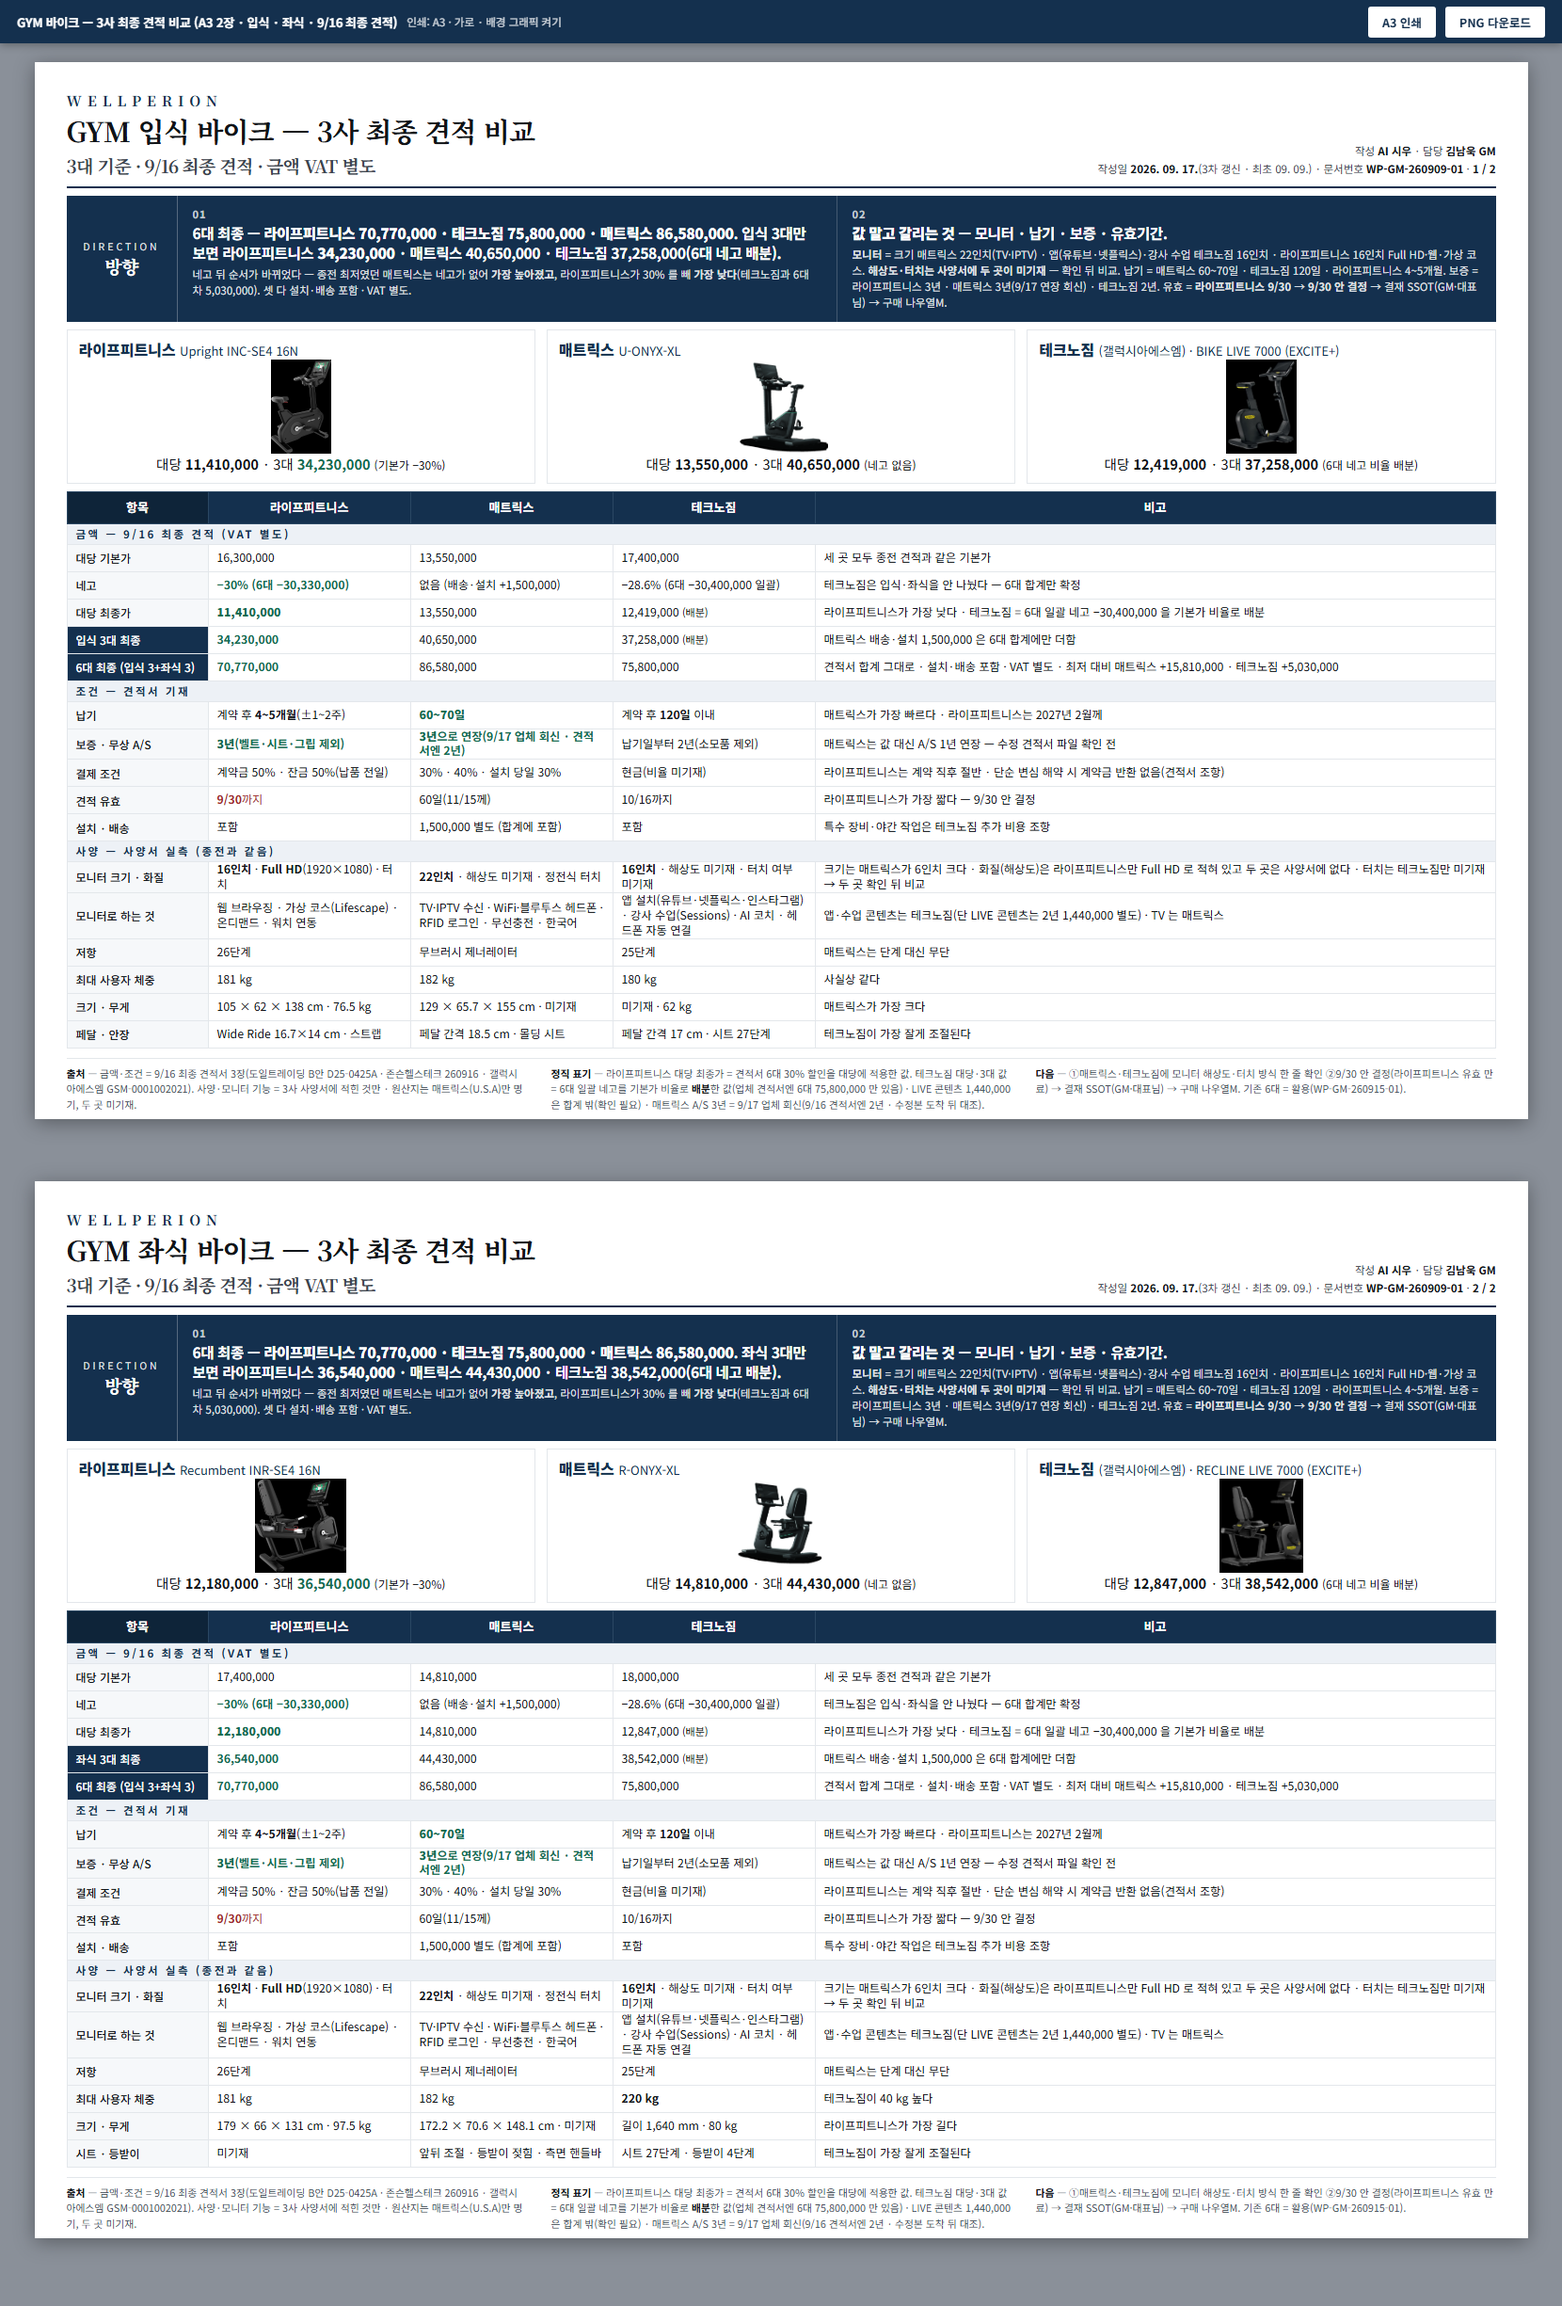
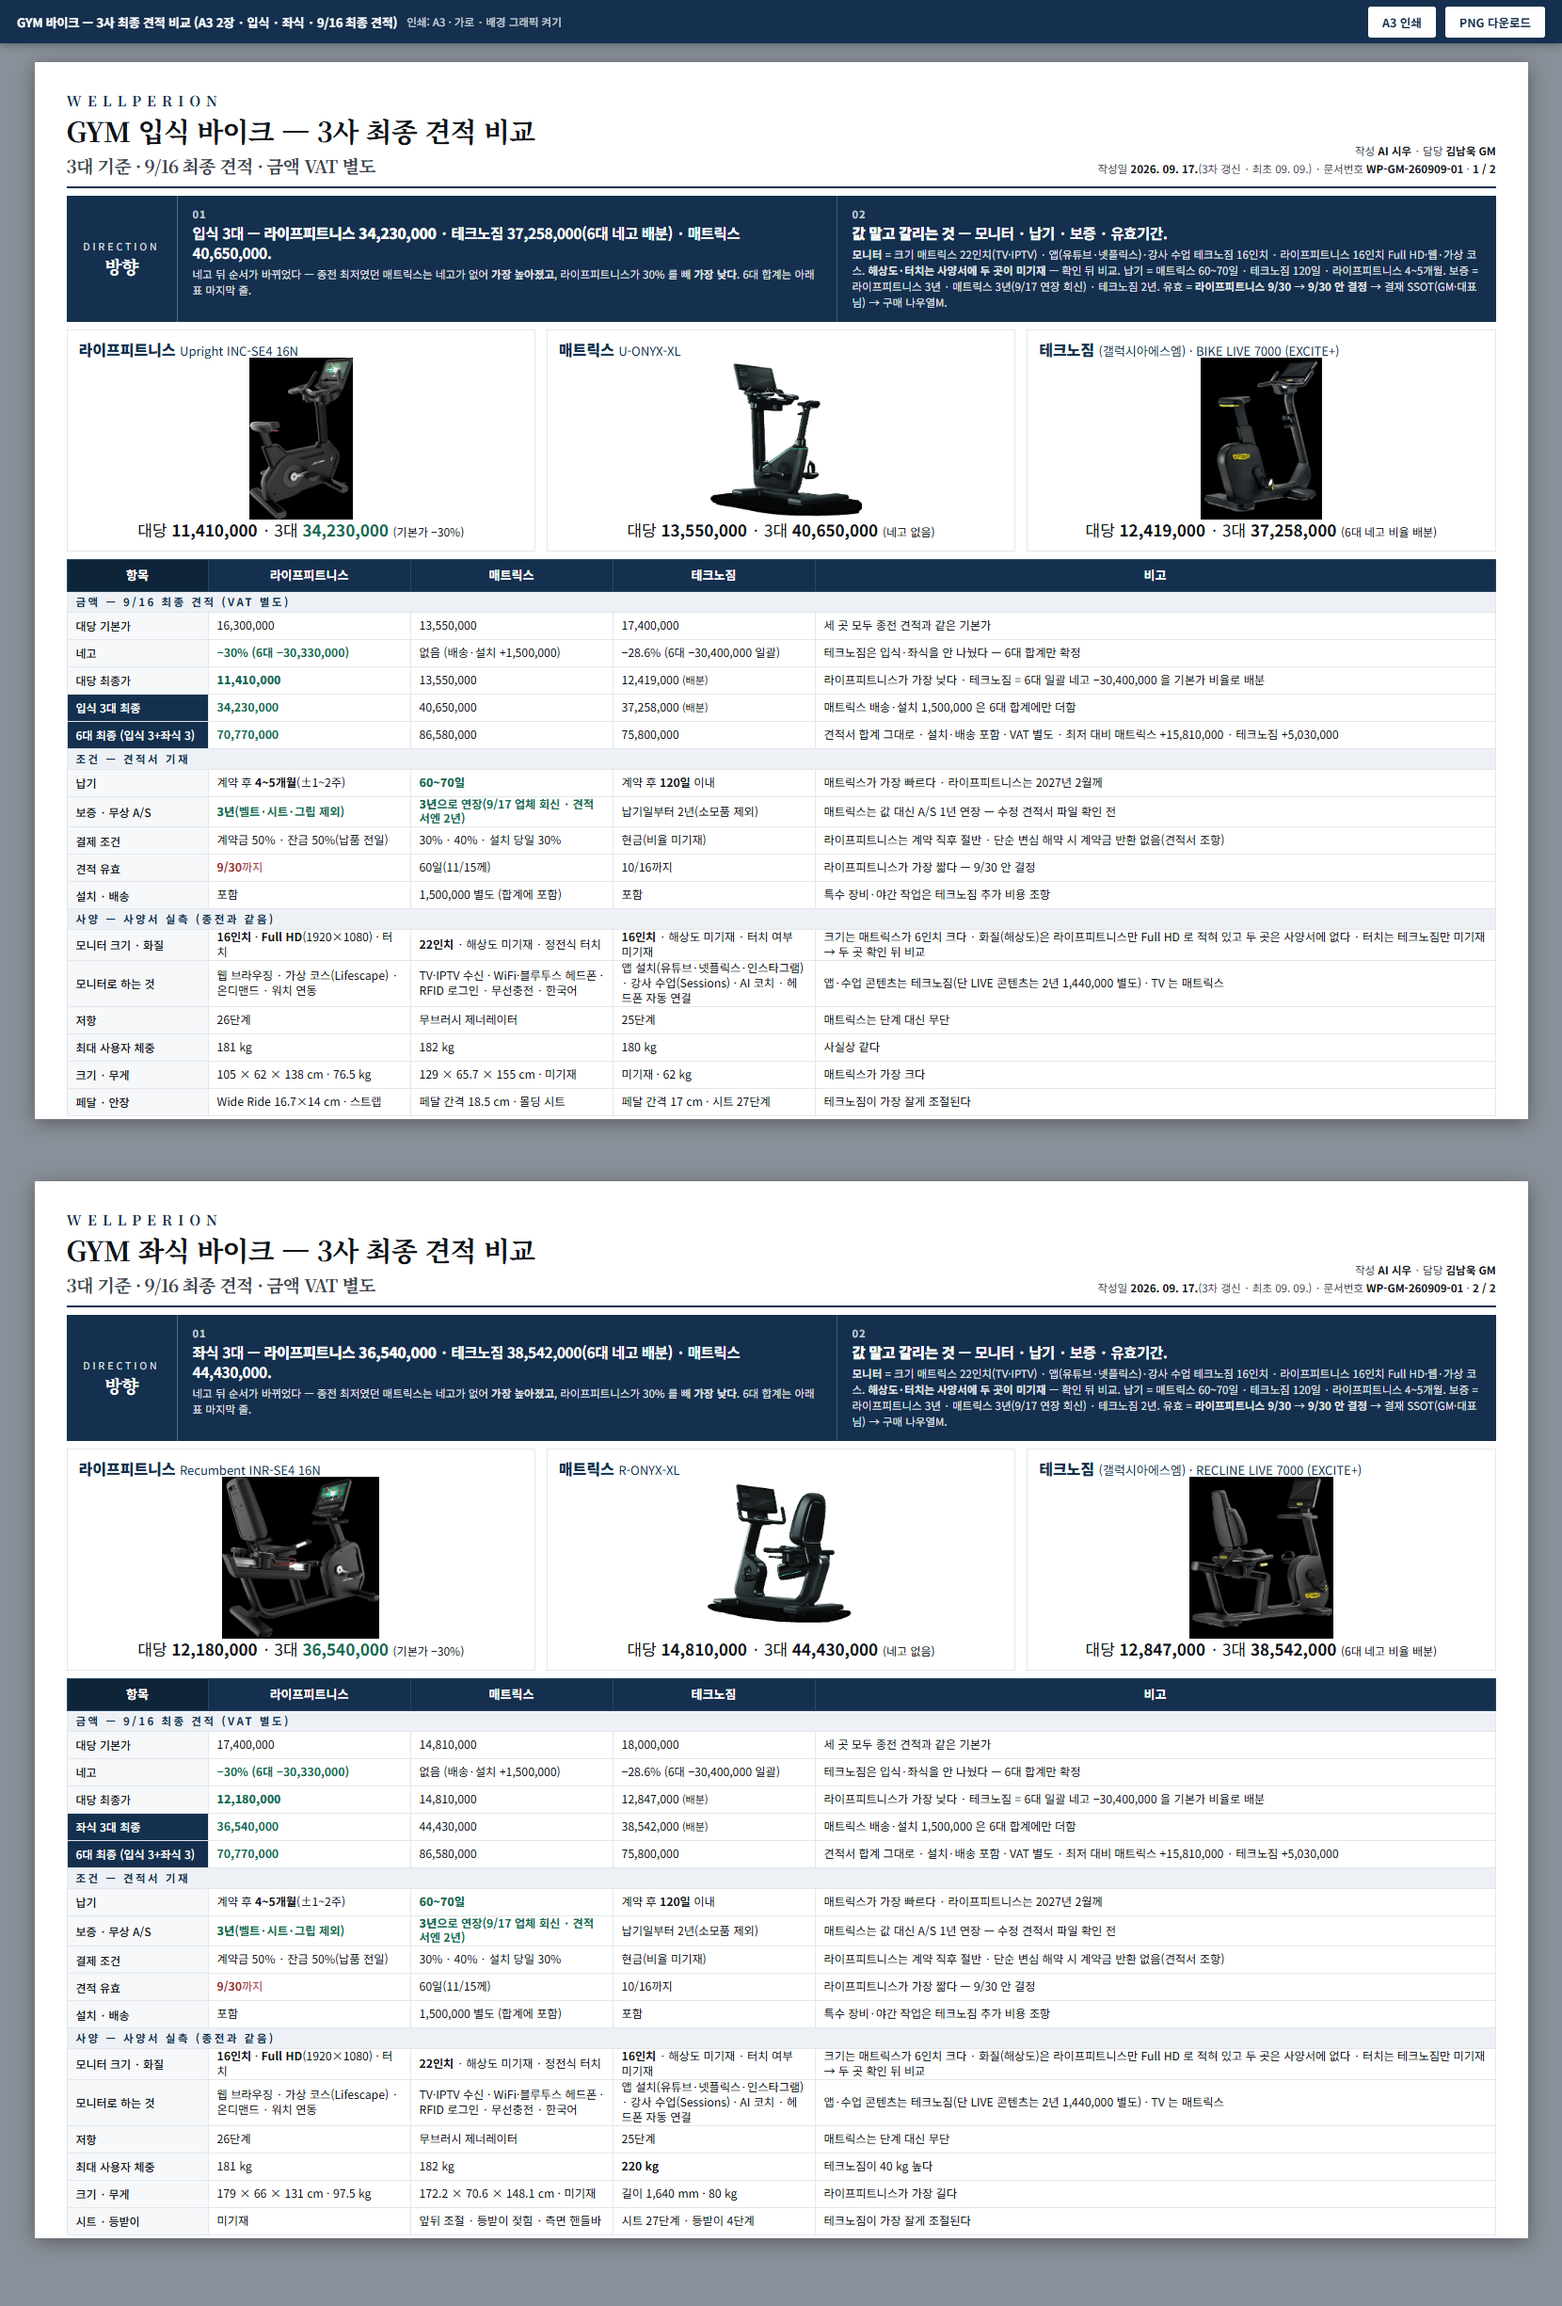
[시우] docs(chairman): 바이크 3사 A3 6차 — 방향 밴드의 6대 합계 중복 삭제(표 마지막 줄 한 곳만) · 제품 사진 100→172px · 가격 글자 14.5→17px(GM 09-17 13:4x)

Changed region(s): [[0.0307, 0.5584, 0.9524, 0.9927], [0.0307, 0.1551, 0.9524, 0.4963], [0.1229, 0.0931, 0.5223, 0.1241]]

diff --git a/3. 웰페리온 가이드/coo/chairman/260909_GYM바이크_3사비교_A3.html b/3. 웰페리온 가이드/coo/chairman/260909_GYM바이크_3사비교_A3.html
@@ -133,26 +133,26 @@
   <div class="ask" style="margin-top:8px">
     <div class="lb"><span>DIRECTION</span><strong>방향</strong></div>
     <div class="items">
-      <div class="it"><div class="n">01</div><div><div class="q">6대 최종 — <b>라이프피트니스 70,770,000 · 테크노짐 75,800,000 · 매트릭스 86,580,000</b>. 입식 3대만 보면 라이프피트니스 <b>34,230,000</b> · 매트릭스 40,650,000 · 테크노짐 37,258,000(6대 네고 배분).</div><div class="d">네고 뒤 순서가 바뀌었다 — 종전 최저였던 매트릭스는 네고가 없어 <b>가장 높아졌고</b>, 라이프피트니스가 30% 를 빼 <b>가장 낮다</b>(테크노짐과 6대 차 5,030,000). 셋 다 설치·배송 포함 · VAT 별도.</div></div></div>
+      <div class="it"><div class="n">01</div><div><div class="q">입식 3대 — <b>라이프피트니스 34,230,000</b> · 테크노짐 37,258,000(6대 네고 배분) · 매트릭스 40,650,000.</div><div class="d">네고 뒤 순서가 바뀌었다 — 종전 최저였던 매트릭스는 네고가 없어 <b>가장 높아졌고</b>, 라이프피트니스가 30% 를 빼 <b>가장 낮다</b>. 6대 합계는 아래 표 마지막 줄.</div></div></div>
       <div class="it"><div class="n">02</div><div><div class="q"><b>값 말고 갈리는 것</b> — 모니터 · 납기 · 보증 · 유효기간.</div><div class="d"><b>모니터</b> = 크기 매트릭스 22인치(TV·IPTV) · 앱(유튜브·넷플릭스)·강사 수업 테크노짐 16인치 · 라이프피트니스 16인치 Full HD·웹·가상 코스. <b>해상도·터치는 사양서에 두 곳이 미기재</b> — 확인 뒤 비교. 납기 = 매트릭스 60~70일 · 테크노짐 120일 · 라이프피트니스 4~5개월. 보증 = 라이프피트니스 3년 · 매트릭스 3년(9/17 연장 회신) · 테크노짐 2년. 유효 = <b>라이프피트니스 9/30</b> → <b>9/30 안 결정</b> → 결재 SSOT(GM·대표님) → 구매 나우열M.</div></div></div>
     </div>
   </div>
 
-  <div style="display:flex; gap:12px; margin-top:8px; height:164px">
+  <div style="display:flex; gap:12px; margin-top:8px; height:236px">
       <div style="flex:1; min-width:0; border:1px solid var(--line); padding:8px 12px 10px; display:flex; flex-direction:column">
         <div style="font-weight:800; font-size:16px; color:var(--navy)">라이프피트니스 <span style="font-weight:400; color:var(--dim); font-size:13px">Upright INC-SE4 16N</span></div>
-        <div style="flex:1; min-height:0; display:flex; align-items:center; justify-content:center; margin:6px 0"><img src="assets/bike/lf_p3_3.png" alt="라이프피트니스" style="max-width:100%; max-height:100px; object-fit:contain"></div>
-        <div style="text-align:center; font-size:14.5px">대당 <b>11,410,000</b> · 3대 <b class="good">34,230,000</b> <span style="color:var(--dim);font-size:12px">(기본가 −30%)</span></div>
+        <div style="flex:1; min-height:0; display:flex; align-items:center; justify-content:center; margin:6px 0"><img src="assets/bike/lf_p3_3.png" alt="라이프피트니스" style="max-width:100%; max-height:172px; object-fit:contain"></div>
+        <div style="text-align:center; font-size:17px">대당 <b>11,410,000</b> · 3대 <b class="good">34,230,000</b> <span style="color:var(--dim);font-size:12px">(기본가 −30%)</span></div>
       </div>
       <div style="flex:1; min-width:0; border:1px solid var(--line); padding:8px 12px 10px; display:flex; flex-direction:column">
         <div style="font-weight:800; font-size:16px; color:var(--navy)">매트릭스 <span style="font-weight:400; color:var(--dim); font-size:13px">U-ONYX-XL</span></div>
-        <div style="flex:1; min-height:0; display:flex; align-items:center; justify-content:center; margin:6px 0"><img src="assets/bike/matrix_p7_6.png" alt="매트릭스" style="max-width:100%; max-height:100px; object-fit:contain"></div>
-        <div style="text-align:center; font-size:14.5px">대당 <b>13,550,000</b> · 3대 <b>40,650,000</b> <span style="color:var(--dim);font-size:12px">(네고 없음)</span></div>
+        <div style="flex:1; min-height:0; display:flex; align-items:center; justify-content:center; margin:6px 0"><img src="assets/bike/matrix_p7_6.png" alt="매트릭스" style="max-width:100%; max-height:172px; object-fit:contain"></div>
+        <div style="text-align:center; font-size:17px">대당 <b>13,550,000</b> · 3대 <b>40,650,000</b> <span style="color:var(--dim);font-size:12px">(네고 없음)</span></div>
       </div>
       <div style="flex:1; min-width:0; border:1px solid var(--line); padding:8px 12px 10px; display:flex; flex-direction:column">
         <div style="font-weight:800; font-size:16px; color:var(--navy)">테크노짐 <span style="font-weight:400; color:var(--dim); font-size:13px">(갤럭시아에스엠) · BIKE LIVE 7000 (EXCITE+)</span></div>
-        <div style="flex:1; min-height:0; display:flex; align-items:center; justify-content:center; margin:6px 0"><img src="assets/bike/techno_p3_7.png" alt="테크노짐" style="max-width:100%; max-height:100px; object-fit:contain"></div>
-        <div style="text-align:center; font-size:14.5px">대당 <b>12,419,000</b> · 3대 <b>37,258,000</b> <span style="color:var(--dim);font-size:12px">(6대 네고 비율 배분)</span></div>
+        <div style="flex:1; min-height:0; display:flex; align-items:center; justify-content:center; margin:6px 0"><img src="assets/bike/techno_p3_7.png" alt="테크노짐" style="max-width:100%; max-height:172px; object-fit:contain"></div>
+        <div style="text-align:center; font-size:17px">대당 <b>12,419,000</b> · 3대 <b>37,258,000</b> <span style="color:var(--dim);font-size:12px">(6대 네고 비율 배분)</span></div>
       </div>
   </div>
 
@@ -200,26 +200,26 @@
   <div class="ask" style="margin-top:8px">
     <div class="lb"><span>DIRECTION</span><strong>방향</strong></div>
     <div class="items">
-      <div class="it"><div class="n">01</div><div><div class="q">6대 최종 — <b>라이프피트니스 70,770,000 · 테크노짐 75,800,000 · 매트릭스 86,580,000</b>. 좌식 3대만 보면 라이프피트니스 <b>36,540,000</b> · 매트릭스 44,430,000 · 테크노짐 38,542,000(6대 네고 배분).</div><div class="d">네고 뒤 순서가 바뀌었다 — 종전 최저였던 매트릭스는 네고가 없어 <b>가장 높아졌고</b>, 라이프피트니스가 30% 를 빼 <b>가장 낮다</b>(테크노짐과 6대 차 5,030,000). 셋 다 설치·배송 포함 · VAT 별도.</div></div></div>
+      <div class="it"><div class="n">01</div><div><div class="q">좌식 3대 — <b>라이프피트니스 36,540,000</b> · 테크노짐 38,542,000(6대 네고 배분) · 매트릭스 44,430,000.</div><div class="d">네고 뒤 순서가 바뀌었다 — 종전 최저였던 매트릭스는 네고가 없어 <b>가장 높아졌고</b>, 라이프피트니스가 30% 를 빼 <b>가장 낮다</b>. 6대 합계는 아래 표 마지막 줄.</div></div></div>
       <div class="it"><div class="n">02</div><div><div class="q"><b>값 말고 갈리는 것</b> — 모니터 · 납기 · 보증 · 유효기간.</div><div class="d"><b>모니터</b> = 크기 매트릭스 22인치(TV·IPTV) · 앱(유튜브·넷플릭스)·강사 수업 테크노짐 16인치 · 라이프피트니스 16인치 Full HD·웹·가상 코스. <b>해상도·터치는 사양서에 두 곳이 미기재</b> — 확인 뒤 비교. 납기 = 매트릭스 60~70일 · 테크노짐 120일 · 라이프피트니스 4~5개월. 보증 = 라이프피트니스 3년 · 매트릭스 3년(9/17 연장 회신) · 테크노짐 2년. 유효 = <b>라이프피트니스 9/30</b> → <b>9/30 안 결정</b> → 결재 SSOT(GM·대표님) → 구매 나우열M.</div></div></div>
     </div>
   </div>
 
-  <div style="display:flex; gap:12px; margin-top:8px; height:164px">
+  <div style="display:flex; gap:12px; margin-top:8px; height:236px">
       <div style="flex:1; min-width:0; border:1px solid var(--line); padding:8px 12px 10px; display:flex; flex-direction:column">
         <div style="font-weight:800; font-size:16px; color:var(--navy)">라이프피트니스 <span style="font-weight:400; color:var(--dim); font-size:13px">Recumbent INR-SE4 16N</span></div>
-        <div style="flex:1; min-height:0; display:flex; align-items:center; justify-content:center; margin:6px 0"><img src="assets/bike/lf_p4_3.png" alt="라이프피트니스" style="max-width:100%; max-height:100px; object-fit:contain"></div>
-        <div style="text-align:center; font-size:14.5px">대당 <b>12,180,000</b> · 3대 <b class="good">36,540,000</b> <span style="color:var(--dim);font-size:12px">(기본가 −30%)</span></div>
+        <div style="flex:1; min-height:0; display:flex; align-items:center; justify-content:center; margin:6px 0"><img src="assets/bike/lf_p4_3.png" alt="라이프피트니스" style="max-width:100%; max-height:172px; object-fit:contain"></div>
+        <div style="text-align:center; font-size:17px">대당 <b>12,180,000</b> · 3대 <b class="good">36,540,000</b> <span style="color:var(--dim);font-size:12px">(기본가 −30%)</span></div>
       </div>
       <div style="flex:1; min-width:0; border:1px solid var(--line); padding:8px 12px 10px; display:flex; flex-direction:column">
         <div style="font-weight:800; font-size:16px; color:var(--navy)">매트릭스 <span style="font-weight:400; color:var(--dim); font-size:13px">R-ONYX-XL</span></div>
-        <div style="flex:1; min-height:0; display:flex; align-items:center; justify-content:center; margin:6px 0"><img src="assets/bike/matrix_p9_3.png" alt="매트릭스" style="max-width:100%; max-height:100px; object-fit:contain"></div>
-        <div style="text-align:center; font-size:14.5px">대당 <b>14,810,000</b> · 3대 <b>44,430,000</b> <span style="color:var(--dim);font-size:12px">(네고 없음)</span></div>
+        <div style="flex:1; min-height:0; display:flex; align-items:center; justify-content:center; margin:6px 0"><img src="assets/bike/matrix_p9_3.png" alt="매트릭스" style="max-width:100%; max-height:172px; object-fit:contain"></div>
+        <div style="text-align:center; font-size:17px">대당 <b>14,810,000</b> · 3대 <b>44,430,000</b> <span style="color:var(--dim);font-size:12px">(네고 없음)</span></div>
       </div>
       <div style="flex:1; min-width:0; border:1px solid var(--line); padding:8px 12px 10px; display:flex; flex-direction:column">
         <div style="font-weight:800; font-size:16px; color:var(--navy)">테크노짐 <span style="font-weight:400; color:var(--dim); font-size:13px">(갤럭시아에스엠) · RECLINE LIVE 7000 (EXCITE+)</span></div>
-        <div style="flex:1; min-height:0; display:flex; align-items:center; justify-content:center; margin:6px 0"><img src="assets/bike/techno_p4_7.png" alt="테크노짐" style="max-width:100%; max-height:100px; object-fit:contain"></div>
-        <div style="text-align:center; font-size:14.5px">대당 <b>12,847,000</b> · 3대 <b>38,542,000</b> <span style="color:var(--dim);font-size:12px">(6대 네고 비율 배분)</span></div>
+        <div style="flex:1; min-height:0; display:flex; align-items:center; justify-content:center; margin:6px 0"><img src="assets/bike/techno_p4_7.png" alt="테크노짐" style="max-width:100%; max-height:172px; object-fit:contain"></div>
+        <div style="text-align:center; font-size:17px">대당 <b>12,847,000</b> · 3대 <b>38,542,000</b> <span style="color:var(--dim);font-size:12px">(6대 네고 비율 배분)</span></div>
       </div>
   </div>
 
